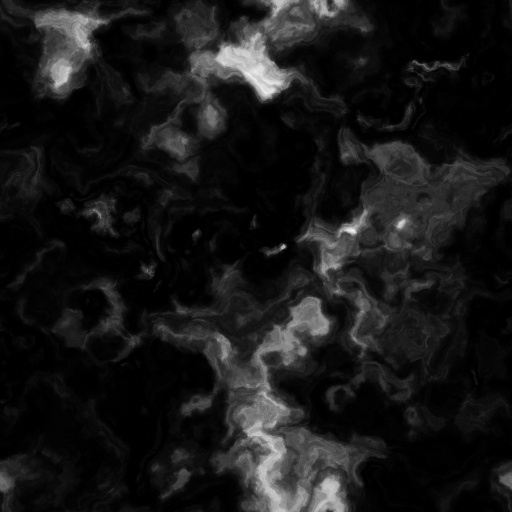
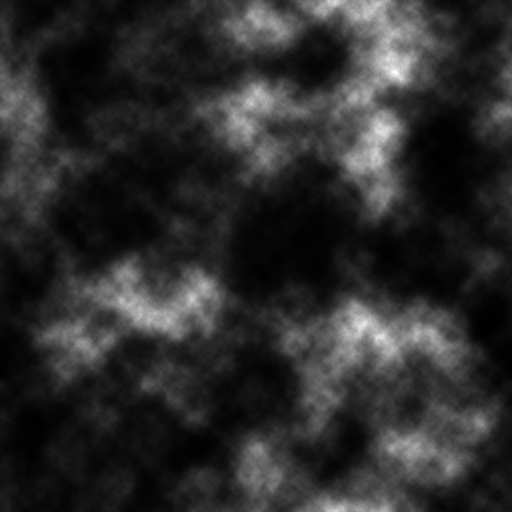
А вот и тупик...

diff --git a/Content/Items/Mod.Yoyos/Blackhole.cs b/Content/Items/Mod.Yoyos/Blackhole.cs
@@ -22,6 +22,7 @@ namespace SPYoyoMod.Content.Items.Mod.Yoyos
         public const string ItemPath = $"{YoyoPath}_Item";
         public const string ProjPath = $"{YoyoPath}_Proj";
 
+        public static readonly LazyAsset<Texture2D> NoiseTexture = LazyAsset<Texture2D>.From($"{AssetPath}/CloudNoise");
         public static readonly LazyAsset<Effect> BackgroundEffect = LazyAsset<Effect>.From($"{YoyoPath}Effect_Background", ReLogic.Content.AssetRequestMode.ImmediateLoad);
     }
 
@@ -84,7 +85,7 @@ namespace SPYoyoMod.Content.Items.Mod.Yoyos
         /// <summary>
         /// Индексы вершин для отрисовки области задника.
         /// </summary>
-        private static readonly short[] _quadIndices = [ 0, 2, 3, 0, 1, 2 ];
+        private static readonly short[] _quadIndices = [0, 2, 3, 0, 1, 2];
 
         /// <summary>
         /// Общая сила эффекта от 0 до 1, где промежуток от 0 до 0.25 - затемнение заднего фона/удаление глобального освещения, а 0.25 до 1 - яркость/прозрачность космоса
@@ -113,8 +114,6 @@ namespace SPYoyoMod.Content.Items.Mod.Yoyos
 
         void ILoadable.Load(Terraria.ModLoader.Mod mod)
         {
-            // Просто определяем силу эффекта;
-            // Если есть хоть один йо-йо, то эффект должен плавно включаться, а если нет - выключаться
             ModEvents.OnPostUpdateEverything += () =>
             {
                 if (_projObserver.AnyEntity)
@@ -129,6 +128,14 @@ namespace SPYoyoMod.Content.Items.Mod.Yoyos
                     _effectStrength = MathHelper.Max(_effectStrength - 0.0125f, 0.0f);
                     _surfaceDarkStrength = MathHelper.Max(_surfaceDarkStrength - 0.025f, 0.0f);
                 }
+            };
+
+            ModEvents.OnModifySunLightColor += (ref Color tileColor, ref Color backgroundColor) =>
+            {
+                if (_surfaceDarkStrength <= 0.0f)
+                    return;
+
+                tileColor = Color.Lerp(tileColor, new Color(55, 40, 95), _surfaceDarkStrength * 0.75f);
             };
 
             // Шиммер (мерцание) отключает отрисовку этой фигни...
@@ -218,41 +225,6 @@ namespace SPYoyoMod.Content.Items.Mod.Yoyos
                     num = MathHelper.Min(MathHelper.Min(_effectStrength * 2.0f, 1.0f) + num, 1.0f);
                 });
             };
-
-            // Шиммер (мерцание) отключает глобальное освещение
-            IL_TileLightScanner.ApplySurfaceLight += (il) =>
-            {
-                var c = new ILCursor(il);
-
-                // float num11 = 1f - Main.shimmerDarken;
-
-                // IL_040d: ldc.r4 1
-                // IL_0412: ldsfld float32 Terraria.Main::shimmerDarken
-                // IL_0417: sub
-                // IL_0418: stloc.s 7 // num11
-
-                var num11Index = -1;
-
-                if (!c.TryGotoNext(
-                    MoveType.After,
-                    i => i.MatchLdcR4(1),
-                    i => i.MatchLdsfld(typeof(Main).GetField(nameof(Main.shimmerDarken))),
-                    i => i.MatchSub(),
-                    i => i.MatchStloc(out num11Index)))
-                {
-                    ModContent.GetInstance<SPYoyoMod>().Logger.Warn($"IL edit \"{nameof(BlackholeBackgroundHandler)}..{nameof(IL_TileLightScanner.ApplySurfaceLight)}\" failed...");
-                    return;
-                }
-
-                c.Emit(OpCodes.Ldloca, num11Index);
-                c.EmitDelegate(static (ref float value) =>
-                {
-                    if (_surfaceDarkStrength <= 0.0f)
-                        return;
-
-                    value = MathHelper.Max(0.0f, value - _surfaceDarkStrength);
-                });
-            };
         }
 
         void ILoadable.Unload()
@@ -267,17 +239,17 @@ namespace SPYoyoMod.Content.Items.Mod.Yoyos
 
             var backgroundTexture = TextureAssets.MagicPixel.Value;
             var backgroundColor = Color.Black * MathHelper.Min(_effectStrength * 4.0f, 1.0f);
-            var backgroundScale = new Vector2(Main.Camera.UnscaledSize.X + Main.offScreenRange * 2, Main.Camera.UnscaledSize.Y + Main.offScreenRange * 2);
+            var backgroundRectangle = new Rectangle((int)(Main.sceneTilePos.X - Main.screenPosition.X), (int)(Main.sceneTilePos.Y - Main.screenPosition.Y), (int)(Main.Camera.UnscaledSize.X + Main.offScreenRange * 2), (int)(Main.Camera.UnscaledSize.Y + Main.offScreenRange * 2));
 
-            Main.spriteBatch.Draw(backgroundTexture, Vector2.Zero, null, backgroundColor, 0f, Vector2.Zero, backgroundScale, SpriteEffects.None, 0f);
+            Main.spriteBatch.Draw(backgroundTexture, Vector2.Zero, backgroundRectangle, backgroundColor, 0f, Vector2.Zero, 1f, SpriteEffects.None, 0f);
 
-            var backgroundRectangle = new Rectangle((int)(Main.sceneTilePos.X - Main.screenPosition.X), (int)(Main.sceneTilePos.Y - Main.screenPosition.Y), (int)backgroundScale.X, (int)backgroundScale.Y);
             var backgroundEffect = BlackholeAssets.BackgroundEffect.Prepare(parameters =>
             {
                 parameters["TransformMatrix"].SetValue(Main.GameViewMatrix.NormalizedTransformationmatrix);
                 parameters["Texture0"].SetValue(Main.instance.tileTarget);
-                parameters["Texture0Offset"].SetValue(Vector2.Zero);
-                parameters["BlurRadius"].SetValue(Vector2.One * 16 / backgroundScale);
+                parameters["Texture1"].SetValue(BlackholeAssets.NoiseTexture.Value);
+                parameters["Texture1Offset"].SetValue(Main.sceneTilePos - Main.screenPosition);
+                parameters["BlurRadius"].SetValue(Vector2.One * 16 / backgroundRectangle.Size());
                 parameters["Transparency"].SetValue(_effectStrength <= 0.25f ? 0f : (_effectStrength - 0.25f) / 0.75f);
             });
 

diff --git a/ModEvents.cs b/ModEvents.cs
@@ -7,12 +7,15 @@ using System.IO;
 using Terraria;
 using Terraria.ID;
 using Terraria.ModLoader;
+using static SPYoyoMod.ModEvents;
 
 namespace SPYoyoMod
 {
     [LoadPriority(sbyte.MaxValue)]
     public sealed class ModEvents : ILoadable
     {
+        public delegate void ModifySunLightColor(ref Color tileColor, ref Color backgroundColor);
+
         // Mod
 
         /// <summary>
@@ -51,6 +54,11 @@ namespace SPYoyoMod
         public static event Action OnPostUpdateCameraPosition;
 
         /// <summary>
+        /// Позволяет модифицировать цвет света, испускаемый солнцем.
+        /// </summary>
+        public static event ModifySunLightColor OnModifySunLightColor;
+
+        /// <summary>
         /// Вызывается при изменении разрешения экрана.
         /// </summary>
         public static event Action<Point> OnResolutionChanged;
@@ -82,6 +90,7 @@ namespace SPYoyoMod
             OnPreUpdateDusts += GeneralUtils.EmptyAction;
             OnPostUpdateEverything += GeneralUtils.EmptyAction;
             OnPostUpdateCameraPosition += GeneralUtils.EmptyAction;
+            OnModifySunLightColor += (ref Color _, ref Color _) => { };
             OnResolutionChanged += GeneralUtils.EmptyAction;
 
             On_Main.DoDraw_UpdateCameraPosition += (orig) =>
@@ -94,6 +103,7 @@ namespace SPYoyoMod
         private static void UnloadModEvents()
         {
             OnResolutionChanged = null;
+            OnModifySunLightColor = null;
             OnPostUpdateCameraPosition = null;
             OnPostUpdateEverything = null;
             OnPreUpdateDusts = null;
@@ -152,6 +162,9 @@ namespace SPYoyoMod
 
             public override void PostUpdateEverything()
                 => ModEvents.OnPostUpdateEverything();
+
+            public override void ModifySunLightColor(ref Color tileColor, ref Color backgroundColor)
+                => ModEvents.OnModifySunLightColor(ref tileColor, ref backgroundColor);
 
             private void ResolutionChangedHandler(Vector2 screenSize)
             {

diff --git a/Content/Items/Vanilla.Yoyos/Valor.cs b/Content/Items/Vanilla.Yoyos/Valor.cs
@@ -33,7 +33,7 @@ namespace SPYoyoMod.Content.Items.Vanilla.Yoyos
         public const string StringPath = $"{AssetPath}/FishingLine_WithShadow";
 
         public static readonly LazyAsset<Texture2D> GlowTexture = LazyAsset<Texture2D>.From($"{AssetPath}/YoyoGlow_WithShadow");
-        public static readonly LazyAsset<Texture2D> NoiseTexture = LazyAsset<Texture2D>.From($"{AssetPath}/CloudNoise");
+        public static readonly LazyAsset<Texture2D> NoiseTexture = LazyAsset<Texture2D>.From($"{AssetPath}/LiquidNoise");
         public static readonly LazyAsset<Effect> TrailEffect = LazyAsset<Effect>.From($"{YoyoPath}Effect_Trail");
         public static readonly LazyAsset<Effect> OutlineEffect = LazyAsset<Effect>.From($"{YoyoPath}Effect_Outline");
     }
